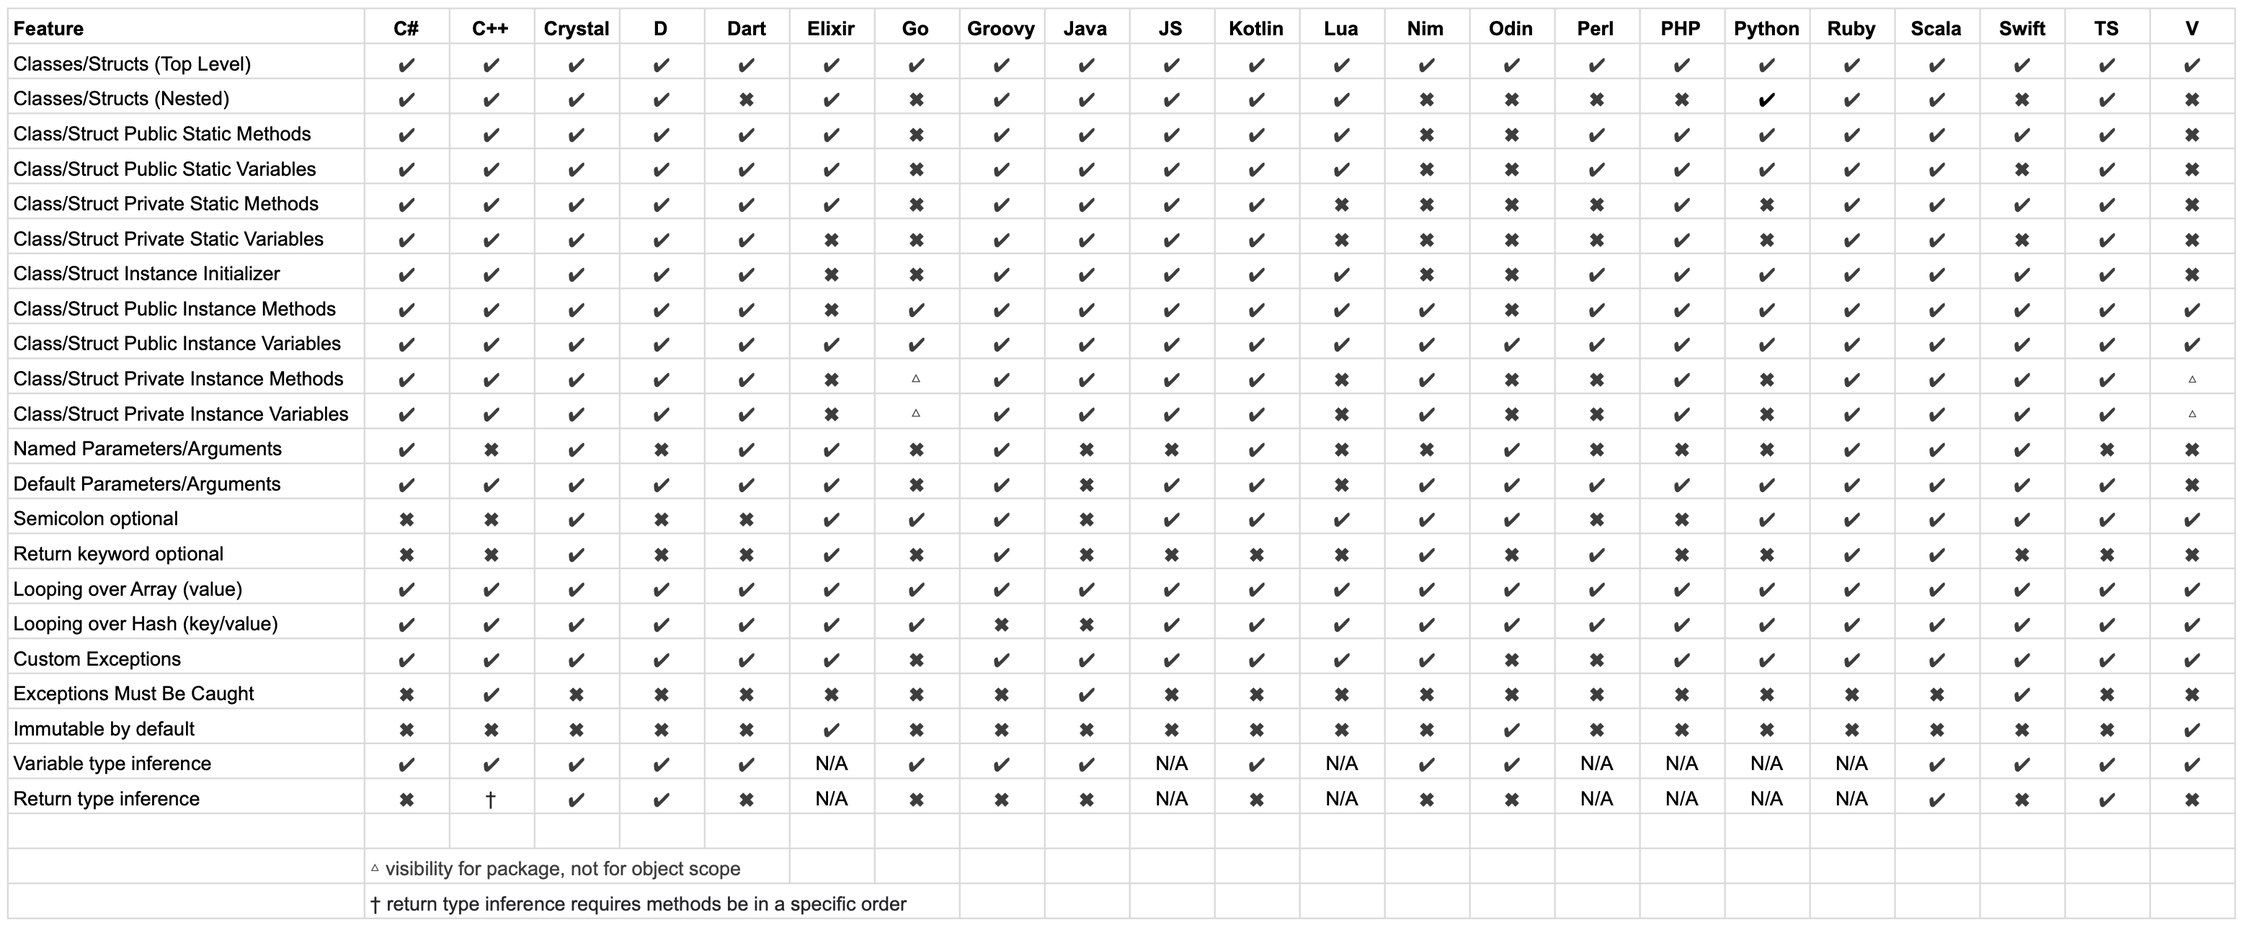
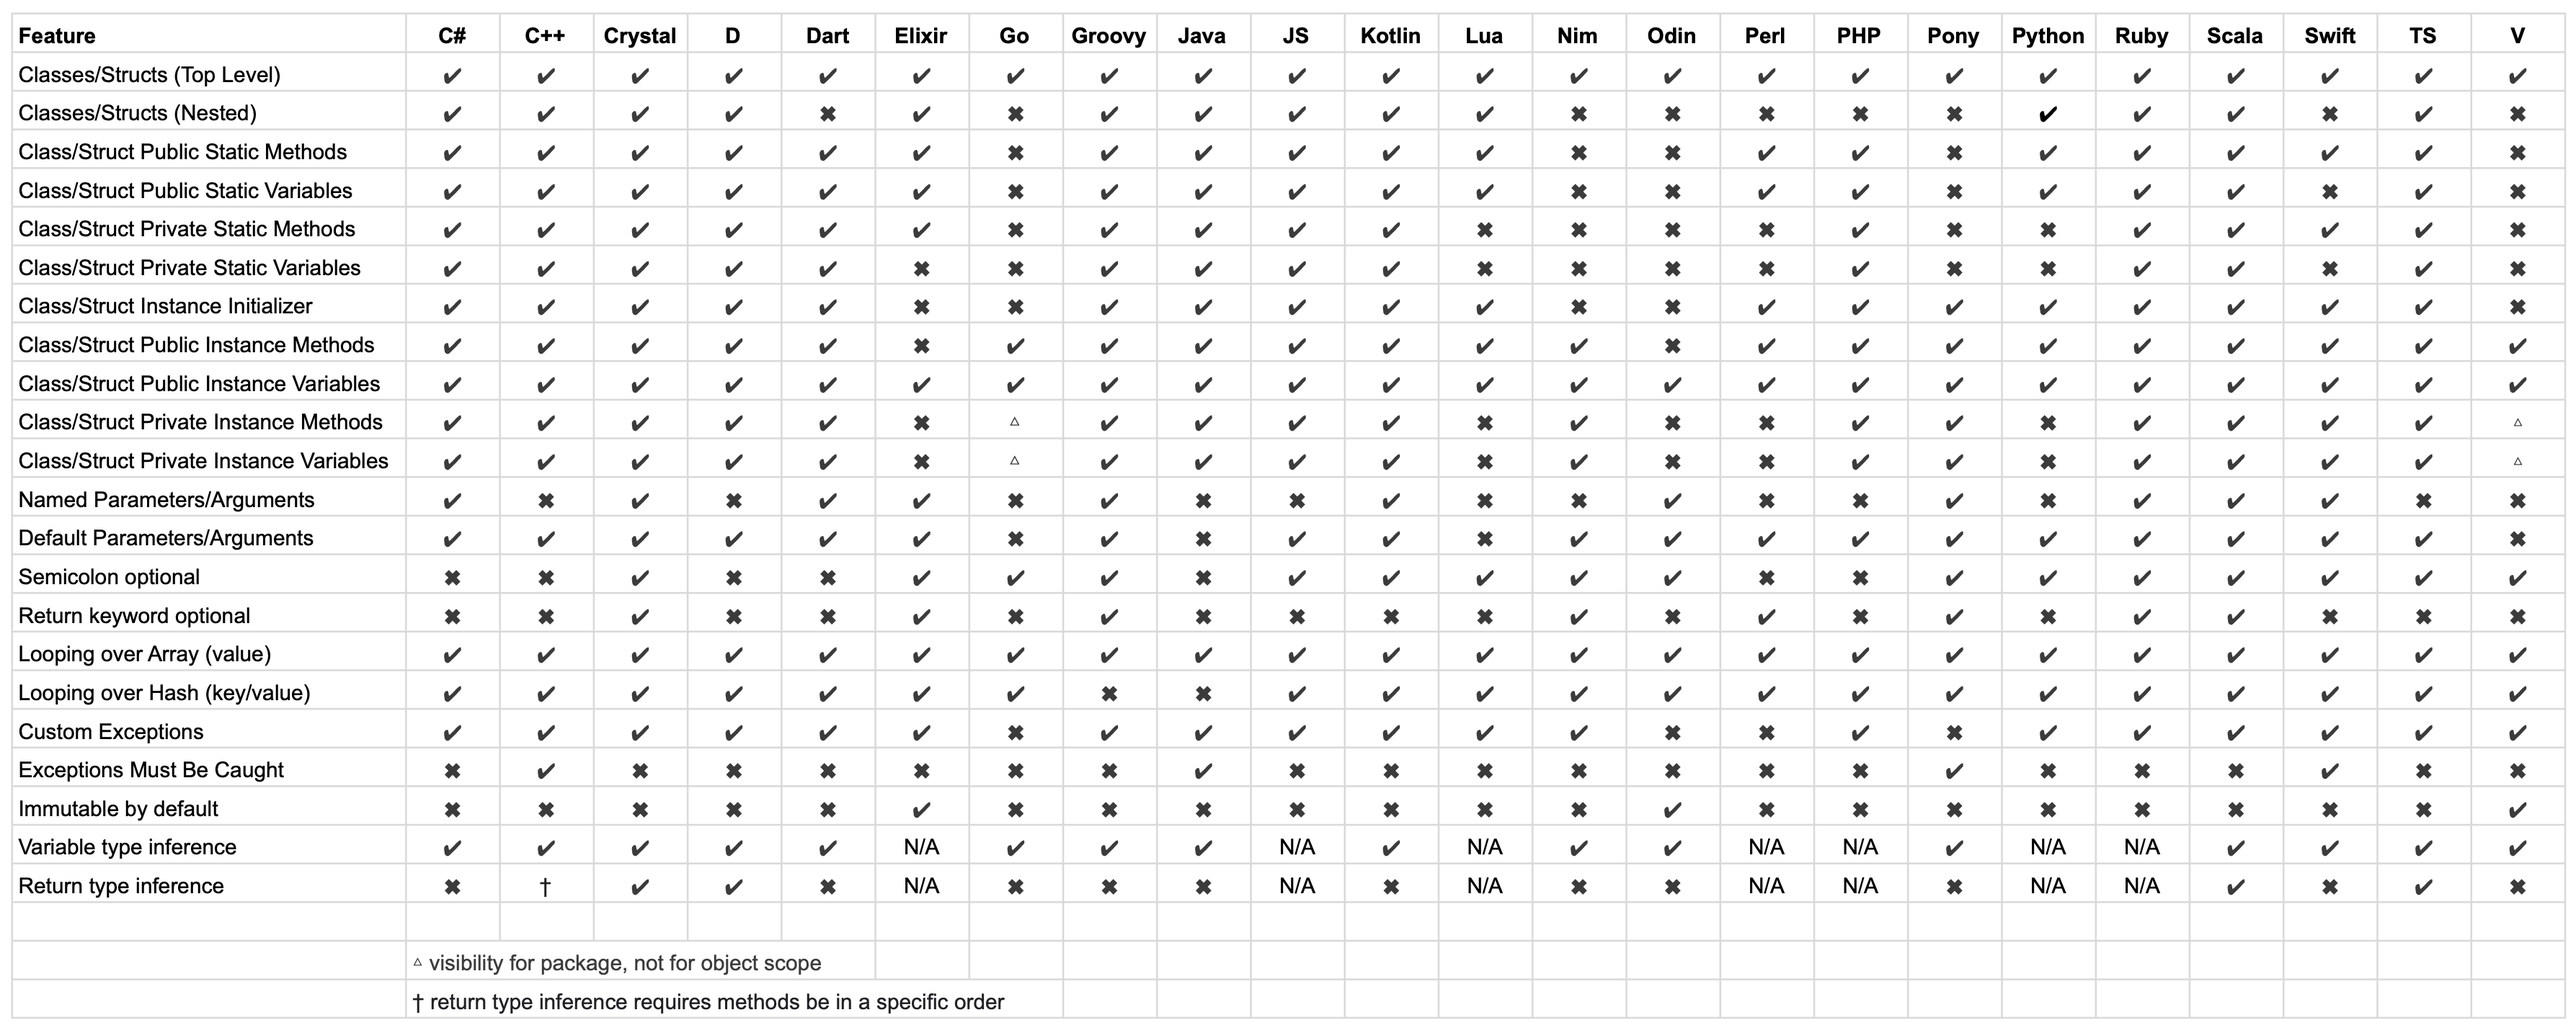
Implementation: Pony

Changed region(s): [[0.0, 0.0, 0.9977, 0.9969]]

diff --git a/README.md b/README.md
@@ -32,21 +32,22 @@ All implementations are coded as similarly as possible using features available 
 | 12th. | Kotlin     | 0.293ms  |  0.270ms   | Static  | Interpreted | Kotlin 1.8.21 (JRE 20)     |
 | 13th. | C#         | 0.298ms  |  1.847ms   | Static  | Interpreted | Mono 6.12.0.182            |
 | 14th. | D          | 0.298ms  |  2.565ms   | Static  | Native      | DLang 2.103.0 (DMD)        |
-| 15th. | C++        | 0.420ms  |  0.591ms   | Static  | Native      | Clang 14.0.3               |
-| 16th. | PHP        | 0.463ms  |  1.126ms   | Dynamic | Interpreted | PHP 8.2.5 (w/JIT)          |
-| 17th. | Scala      | 0.503ms  |  0.331ms   | Static  | Interpreted | Scala 3.2.2 (JRE 20)       |
-| 18th. | Python     | 0.578ms  |  0.683ms   | Dynamic | Interpreted | PyPy 7.3.9                 |
-| 19th. | Groovy     | 0.586ms  |  2.528ms   | Static  | Interpreted | Groovy 4.0.11 (JRE 20)     |
-| 20th. | Ruby       | 0.694ms  |  1.873ms   | Dynamic | Interpreted | TruffleRuby 22.3.1         |
-| 21st. | Javascript | 0.775ms  |  1.295ms   | Dynamic | Interpreted | Firefox 110.0              |
-| 22nd. | Lua        | 0.927ms  |  1.018ms   | Dynamic | Interpreted | LuaJIT 2.1.0-beta3         |
-| 23rd. | Nim        | 0.980ms  |  1.301ms   | Static  | Native      | Nim 1.6.12                 |
-| 24th. | Swift      | 1.040ms  |  1.543ms   | Static  | Native      | Swift 5.8.0                |
-| 25th. | PHP        | 1.786ms  |  1.583ms   | Dynamic | Interpreted | PHP 8.2.5                  |
-| 26th. | Python     | 2.261ms  |  2.813ms   | Dynamic | Interpreted | Python 3.11.2              |
-| 27th. | Ruby       | 3.430ms  |  2.586ms   | Dynamic | Interpreted | CRuby 3.2.1 (w/JIT)        |
-| 28th. | Ruby       | 3.862ms  |  2.906ms   | Dynamic | Interpreted | CRuby 3.2.1                |
-| 29th. | Lua        | 4.123ms  |  2.665ms   | Dynamic | Interpreted | Lua 5.4.4                  |
-| 30th. | Ruby       | 4.246ms  |  1.938ms   | Dynamic | Interpreted | JRuby 9.4.1.0 (JRE 20)     |
-| 31st. | Perl       | 8.330ms  |  3.530ms   | Dynamic | Interpreted | Perl 5.36.0                |
-| 32nd. | Elixir     | 19.473ms |  3.526ms   | Dynamic | Interpreted | Elixir 1.15.4              |
+| 15th. | Pony       | 0.341ms  |  0.773ms   | Static  | Native      | Pony 0.55.0                |
+| 16th. | C++        | 0.420ms  |  0.591ms   | Static  | Native      | Clang 14.0.3               |
+| 17th. | PHP        | 0.463ms  |  1.126ms   | Dynamic | Interpreted | PHP 8.2.5 (w/JIT)          |
+| 18th. | Scala      | 0.503ms  |  0.331ms   | Static  | Interpreted | Scala 3.2.2 (JRE 20)       |
+| 19th. | Python     | 0.578ms  |  0.683ms   | Dynamic | Interpreted | PyPy 7.3.9                 |
+| 20th. | Groovy     | 0.586ms  |  2.528ms   | Static  | Interpreted | Groovy 4.0.11 (JRE 20)     |
+| 21st. | Ruby       | 0.694ms  |  1.873ms   | Dynamic | Interpreted | TruffleRuby 22.3.1         |
+| 22nd. | Javascript | 0.775ms  |  1.295ms   | Dynamic | Interpreted | Firefox 110.0              |
+| 23rd. | Lua        | 0.927ms  |  1.018ms   | Dynamic | Interpreted | LuaJIT 2.1.0-beta3         |
+| 24th. | Nim        | 0.980ms  |  1.301ms   | Static  | Native      | Nim 1.6.12                 |
+| 25th. | Swift      | 1.040ms  |  1.543ms   | Static  | Native      | Swift 5.8.0                |
+| 26th. | PHP        | 1.786ms  |  1.583ms   | Dynamic | Interpreted | PHP 8.2.5                  |
+| 27th. | Python     | 2.261ms  |  2.813ms   | Dynamic | Interpreted | Python 3.11.2              |
+| 28th. | Ruby       | 3.430ms  |  2.586ms   | Dynamic | Interpreted | CRuby 3.2.1 (w/JIT)        |
+| 29th. | Ruby       | 3.862ms  |  2.906ms   | Dynamic | Interpreted | CRuby 3.2.1                |
+| 30th. | Lua        | 4.123ms  |  2.665ms   | Dynamic | Interpreted | Lua 5.4.4                  |
+| 31st. | Ruby       | 4.246ms  |  1.938ms   | Dynamic | Interpreted | JRuby 9.4.1.0 (JRE 20)     |
+| 32nd. | Perl       | 8.330ms  |  3.530ms   | Dynamic | Interpreted | Perl 5.36.0                |
+| 33rd. | Elixir     | 19.473ms |  3.526ms   | Dynamic | Interpreted | Elixir 1.15.4              |

diff --git a/pony/README.md b/pony/README.md
@@ -1,0 +1,10 @@
+# PonyLang
+
+## Installation
+
+* `brew install ponyc`
+
+## Usage
+
+* `ponyc -b play`
+* `./play`
